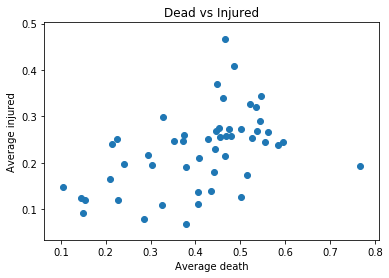
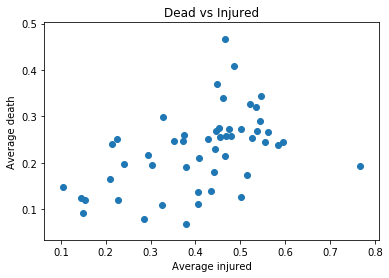
changed graph

Changed region(s): [[0.0, 0.3453, 0.0617, 0.6331], [0.4319, 0.9209, 0.6478, 0.9784]]

diff --git a/python_files/graphs_with_trendline.py b/python_files/graphs_with_trendline.py
@@ -123,8 +123,8 @@ plt.scatter(n_injured['mean'], n_killed['mean'])
 #z = np.polyfit(n_injured['mean'], n_killed['mean'], 1)
 #plt.plot(n_injured['mean'],p(n_injured['mean']),"r--")
 #p = np.poly1d(z)
-plt.ylabel('Average injured')
-plt.xlabel('Average death')
+plt.ylabel('Average death')
+plt.xlabel('Average injured')
 plt.title('Dead vs Injured')
 plt.show()
 
